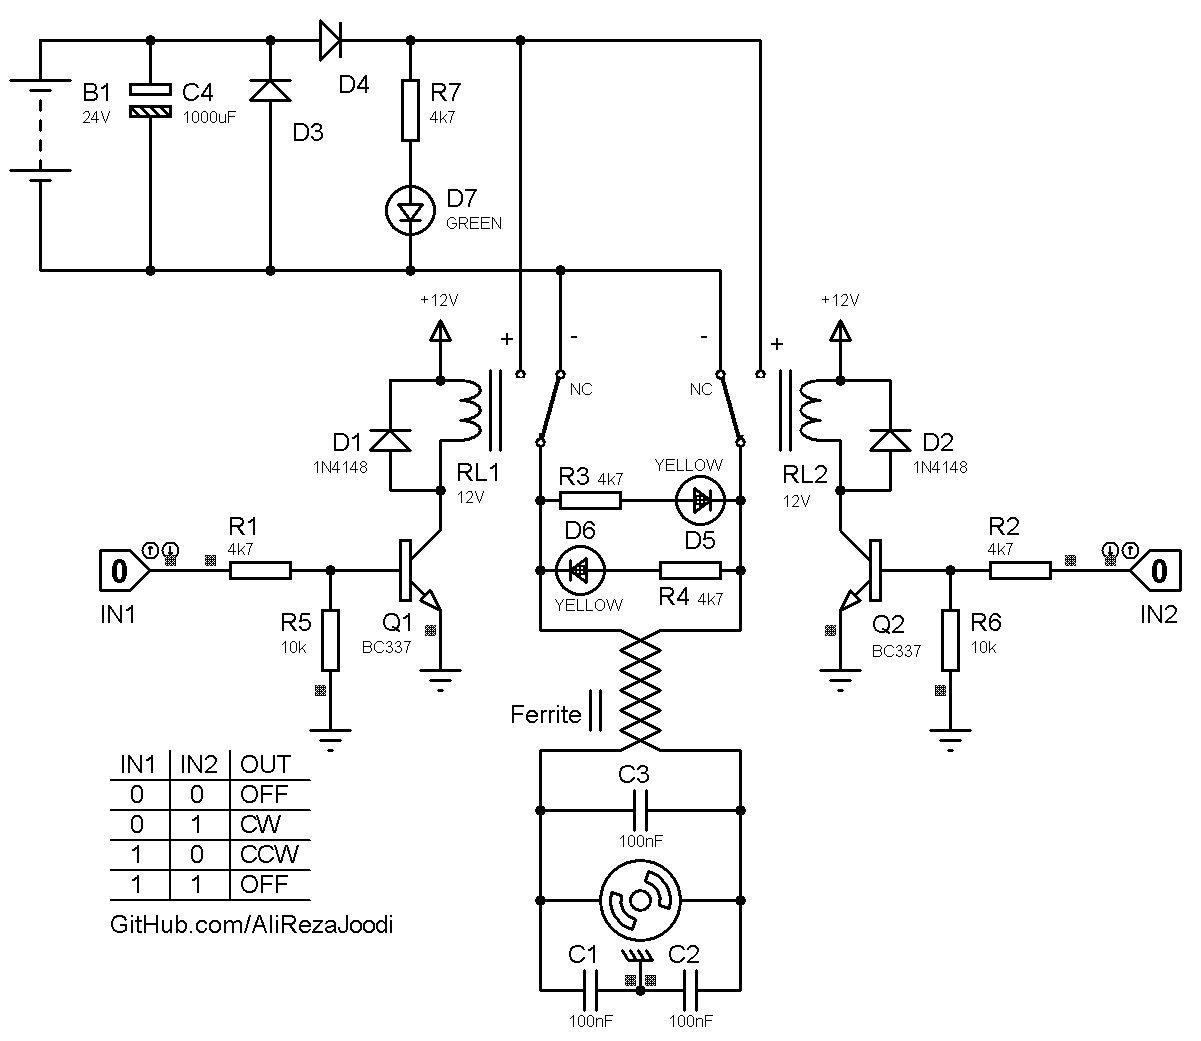
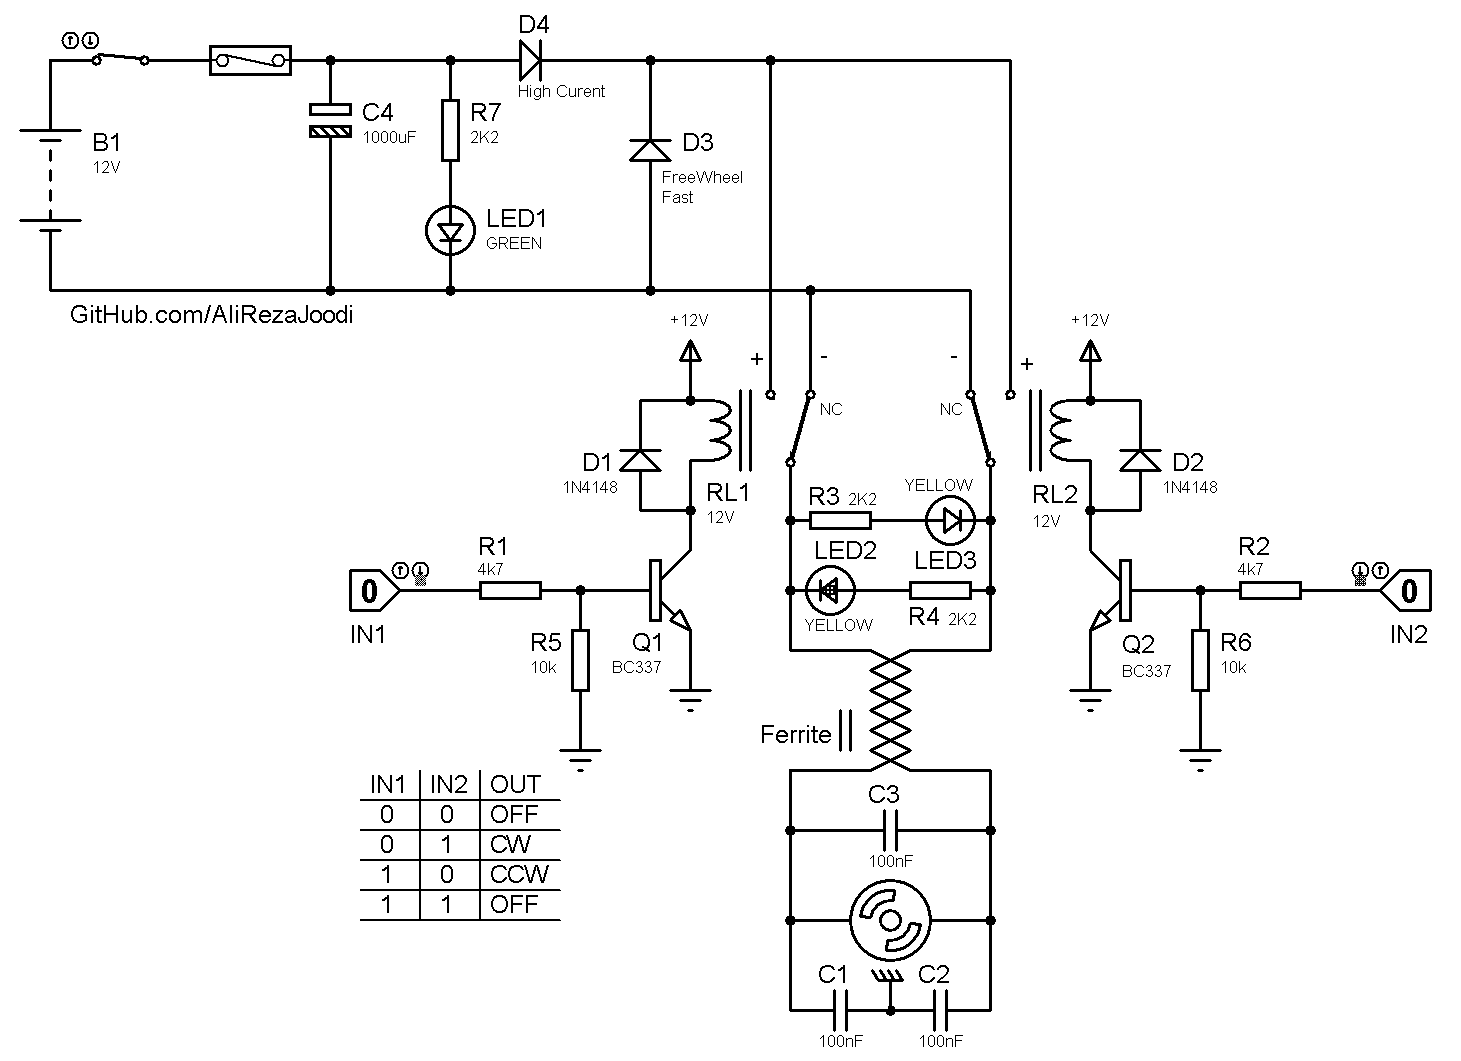
Update

diff --git a/PowerSupply_FilterUsableForInductiveLoad/README.md b/PowerSupply_FilterUsableForInductiveLoad/README.md
@@ -1,4 +1,4 @@
-## Safe Power Supply for Relays
+## Power Supply Filter Usable For Inductive Load
 
 ### Folders and Files Description
 It has included:
